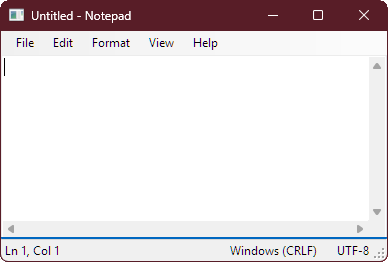
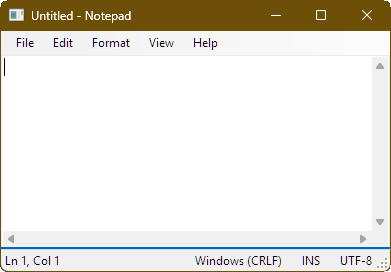
chore: cleaning up window and messagebox titles, unified as OGNP

Changed region(s): [[0.0, 0.0, 1.0, 1.0], [0.0, 0.2748, 0.0309, 0.3053], [0.0, 0.2137, 0.0309, 0.2443]]

diff --git a/MainForm.cs b/MainForm.cs
@@ -73,7 +73,7 @@ namespace ognp
 
         public MainForm(string? initialPath, int? initialLine = null)
         {
-            Text = "Untitled - Notepad";
+            Text = "Untitled - OGNP";
             Icon = SystemIcons.Application;
             StartPosition = FormStartPosition.CenterScreen;
             Width = 900;
@@ -211,11 +211,11 @@ namespace ognp
 
             // Help
             var help = new ToolStripMenuItem("&Help");
-            var helpAbout = new ToolStripMenuItem("&About Notepad", null, (_, __) =>
+            var helpAbout = new ToolStripMenuItem("&About OGNP", null, (_, __) =>
             {
                 MessageBox.Show(
                     "ognp (OG Notepad)\nA faithful Notepad clone written in C#.\n\n© 2025 Jim Sines (raystanza).\n\nLicensed under GPL-3.0-or-later",
-                    "About Notepad",
+                    "About ognp",
                     MessageBoxButtons.OK, MessageBoxIcon.Information);
             });
 
@@ -246,7 +246,7 @@ namespace ognp
             var name = string.IsNullOrEmpty(currentPath) ? "Untitled" : Path.GetFileName(currentPath);
             var res = MessageBox.Show(
                 $"Do you want to save changes to {name}?",
-                "Notepad",
+                "OGNP",
                 MessageBoxButtons.YesNoCancel,
                 MessageBoxIcon.Exclamation);
 
@@ -299,7 +299,7 @@ namespace ognp
                 {
                     var res = MessageBox.Show(
                         $"The file is {fi.Length / (1024 * 1024)} MB. Opening may be slow. Open anyway?",
-                        "Notepad",
+                        "OGNP",
                         MessageBoxButtons.YesNo,
                         MessageBoxIcon.Warning);
                     if (res != DialogResult.Yes) return;
@@ -345,7 +345,7 @@ namespace ognp
             }
             catch (Exception ex)
             {
-                MessageBox.Show($"Could not open file.\n\n{ex.Message}", "Notepad",
+                MessageBox.Show($"Could not open file.\n\n{ex.Message}", "OGNP",
                     MessageBoxButtons.OK, MessageBoxIcon.Error);
             }
             finally
@@ -371,7 +371,7 @@ namespace ognp
             }
             catch (Exception ex)
             {
-                MessageBox.Show($"Could not save file.\n\n{ex.Message}", "Notepad",
+                MessageBox.Show($"Could not save file.\n\n{ex.Message}", "OGNP",
                     MessageBoxButtons.OK, MessageBoxIcon.Error);
                 return false;
             }
@@ -408,7 +408,7 @@ namespace ognp
             }
             catch (Exception ex)
             {
-                MessageBox.Show($"Could not save file.\n\n{ex.Message}", "Notepad",
+                MessageBox.Show($"Could not save file.\n\n{ex.Message}", "OGNP",
                     MessageBoxButtons.OK, MessageBoxIcon.Error);
                 return false;
             }
@@ -758,7 +758,7 @@ namespace ognp
         private void UpdateTitle()
         {
             string name = string.IsNullOrEmpty(currentPath) ? "Untitled" : Path.GetFileName(currentPath);
-            Text = $"{name} - Notepad";
+            Text = $"{name} - OGNP";
         }
 
         private void UpdateStatus()
@@ -819,7 +819,7 @@ namespace ognp
             }
             catch (Exception ex)
             {
-                MessageBox.Show($"Printing failed.\n\n{ex.Message}", "Notepad",
+                MessageBox.Show($"Printing failed.\n\n{ex.Message}", "OGNP",
                     MessageBoxButtons.OK, MessageBoxIcon.Error);
             }
         }
